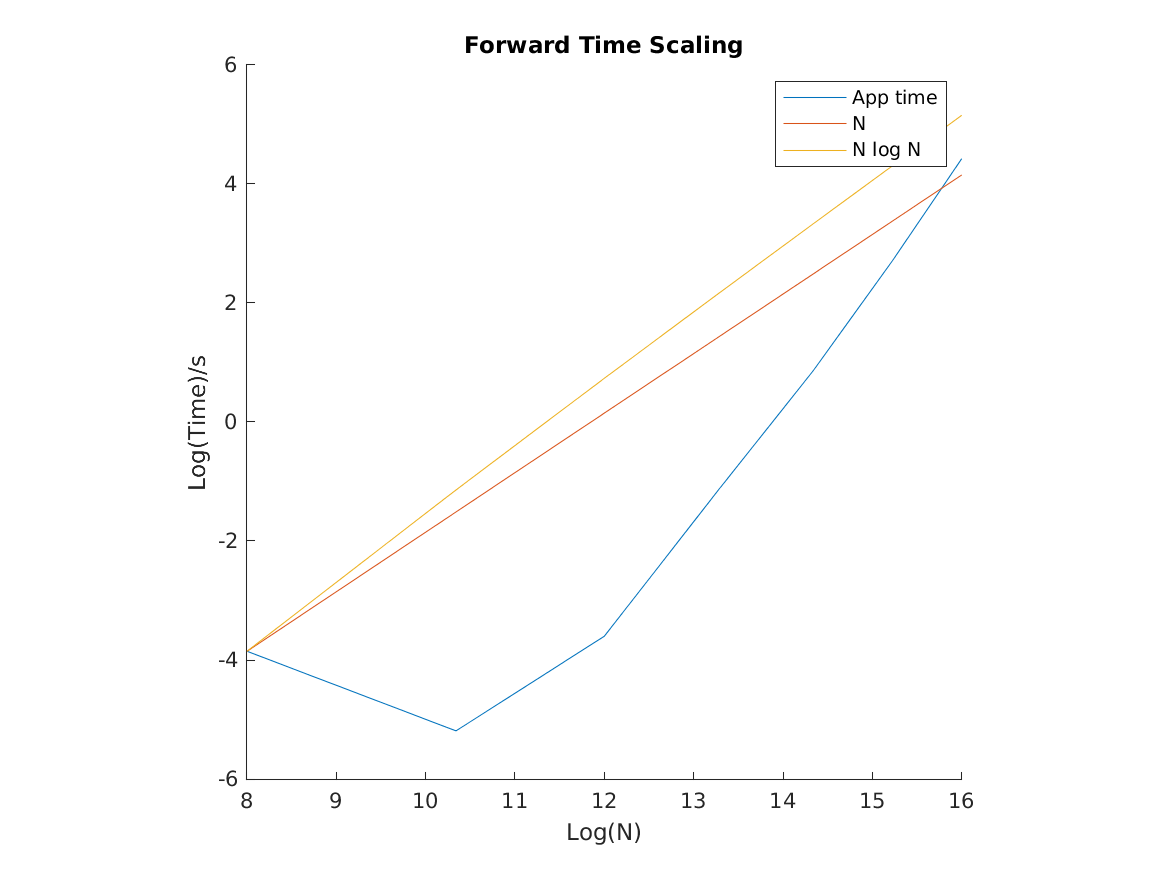
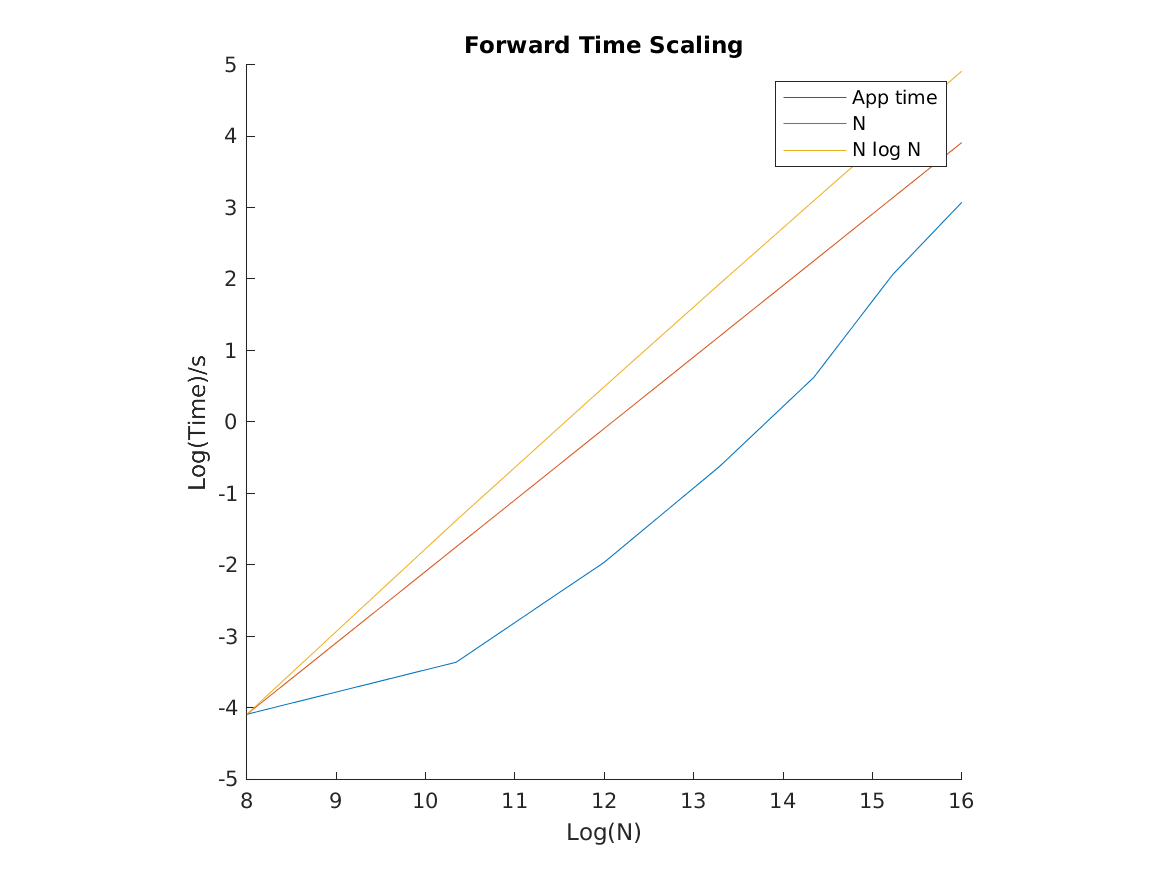
test househodlerqr.m

diff --git a/test_qr.m b/test_qr.m
@@ -37,7 +37,7 @@ for i = 1:cases
     N = n^2;
     NG = 5*floor(log2(N));
     rk = 9*floor(log2(N));
-    k = -10/2:10/2-1;
+    k = -80/2:80/2-1;
     kk = k(:);
     %rank_or_tol = 8*floor(log2(N))    
 
@@ -68,13 +68,12 @@ for i = 1:cases
     A = fun(xx, kk);
     tic;
     for j = 1:repeat_num
-        [Y T R] = qr_wybased(A);
+        [Y T R] = householderqr(A);
     end
+    apptime(i) = toc/repeat_num;
     size(Y)
     size(T)
     size(R)
-    apptime(i) = toc/repeat_num;
-    
 end
 
 N = dims.^2;
